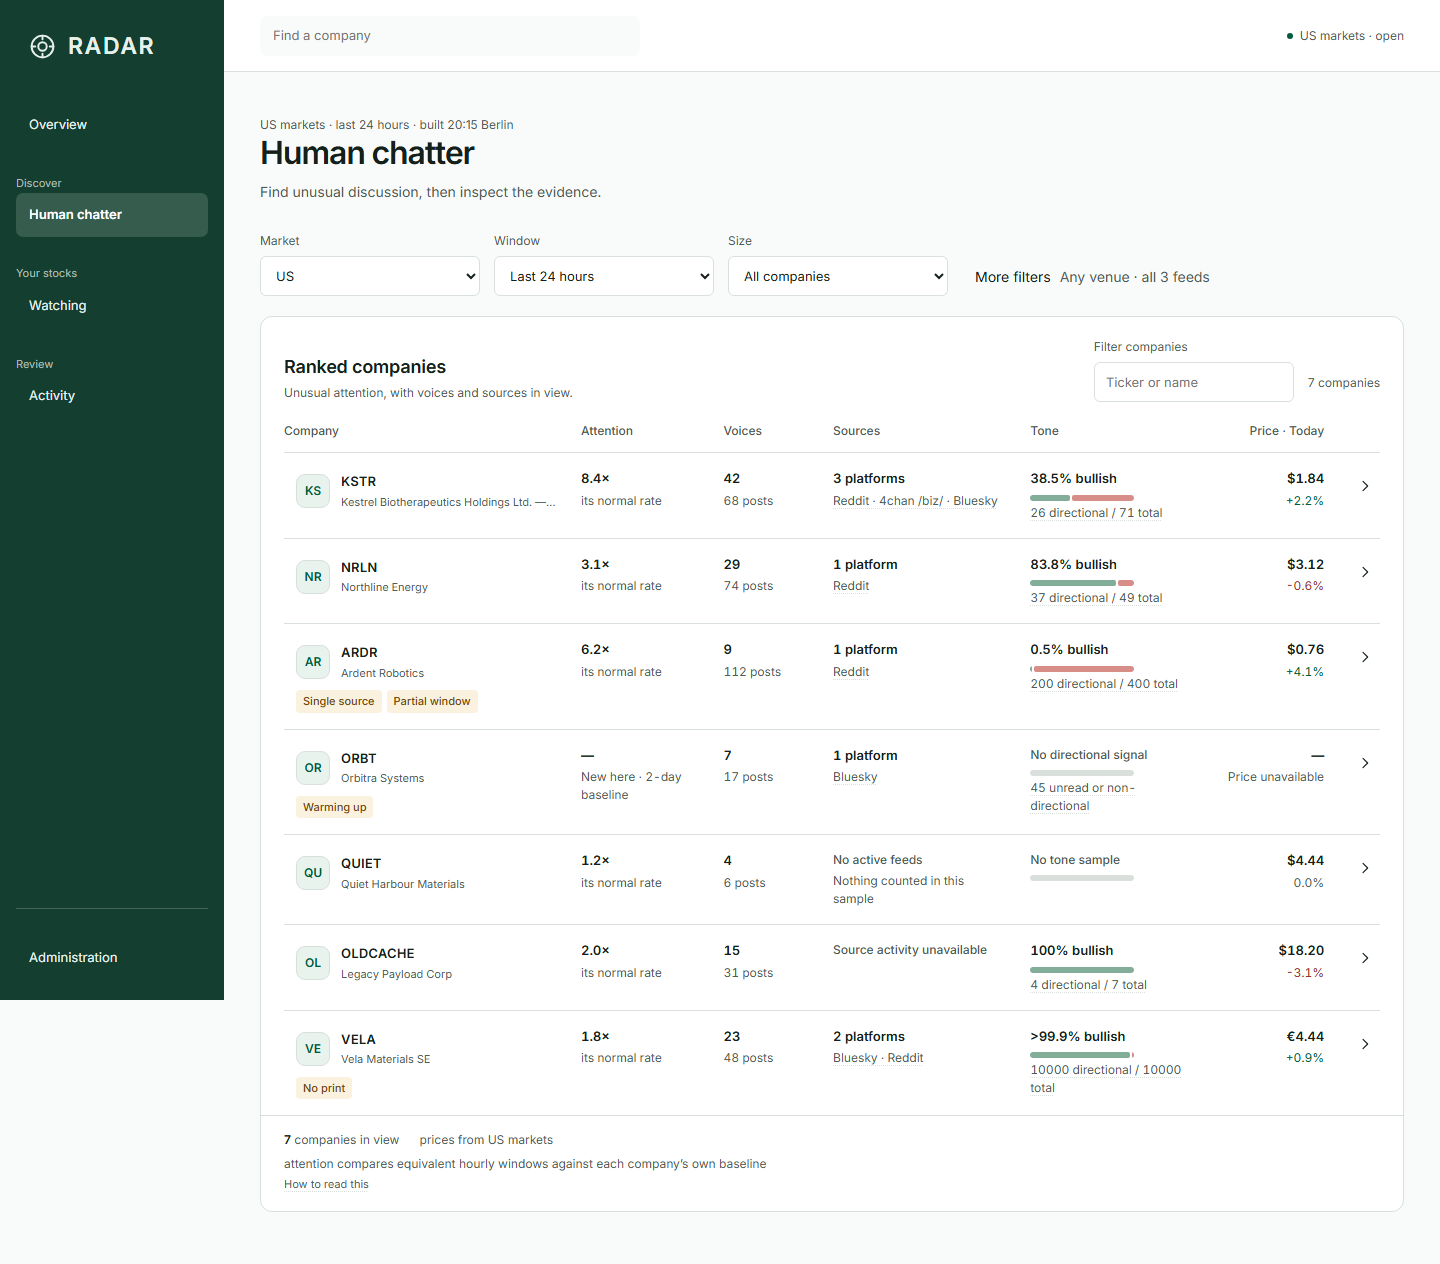
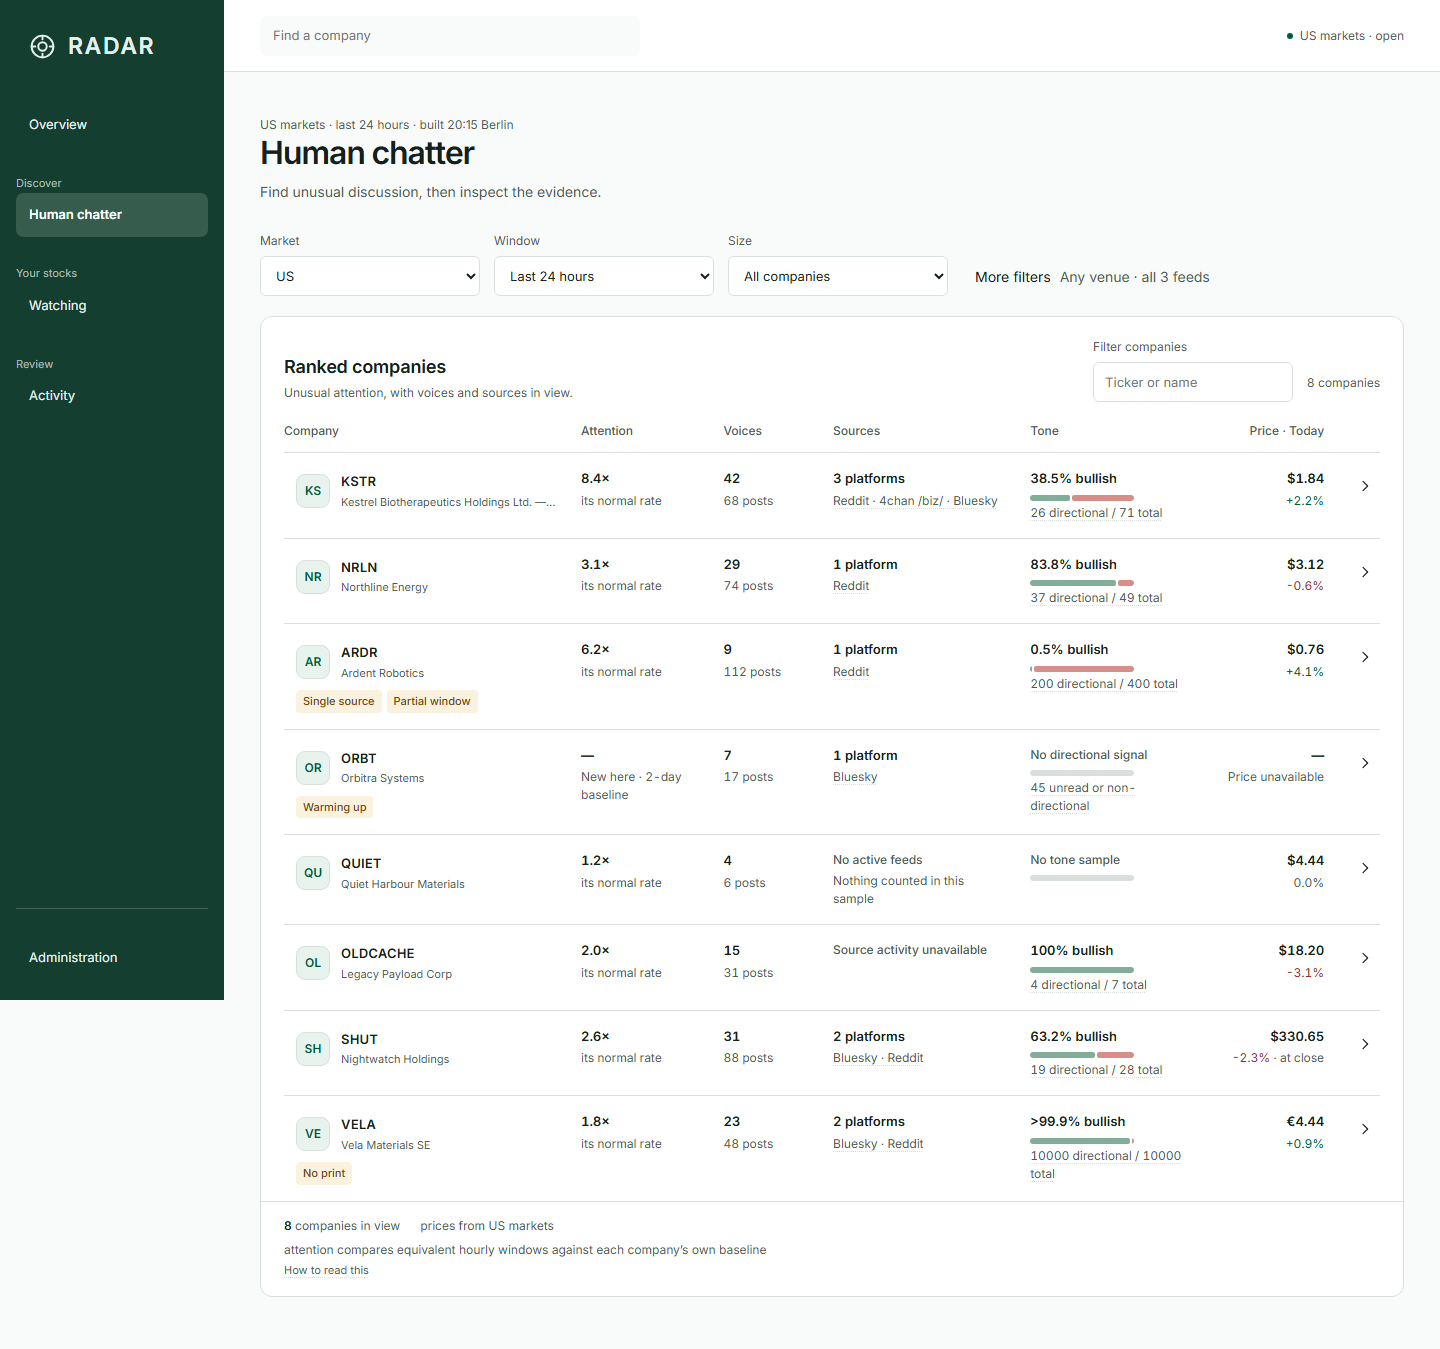
fix(radar): a move the board measured is not an unknown move
With the exchange shut, every row printed "Move unknown" over a number the
board had already computed. Measured on the live target at 00:01 UTC with the
session closed: 50 of 50 rows had a price and 0 had a move, while
quotes.moves_for returned them perfectly well for the same window -- META
+6.55%, GOOGL -2.28%, PL -3.31%.

`_assemble` was discarding the move whenever the quote was not score-eligible.
That gate belongs to the DIVERGENCE score, and the reason is good: a frozen
tape reporting no movement while mentions explode is maximum divergence
produced by an artifact. But divergence tests `score_eligible` itself rather
than relying on `move` having been nulled, so carrying the move through cannot
weaken it -- and a test now pins exactly that, asserting the move survives a
closed exchange while the score still refuses.

The row says which session it is describing: `-2.3% · at close` when the
exchange is shut, `+3.1% · no print since` when the tape has frozen while the
market is open, and the bare percentage while it is trading. "Move unknown" is
now reserved for the one case that really is unknown -- fewer than two
snapshots in the window, which quotes.moves_for decides and always did.

This is the third instance of one mistake, after the tone column's "neutral"
and the evidence list's "wording": a deliberate suppression rendered as an
absence. The fixture gains a closed-exchange row so the state is visible in the
captures rather than only in a test.
[…]

diff --git a/personal_apps/static/radar/src/hub/Chatter.test.tsx b/personal_apps/static/radar/src/hub/Chatter.test.tsx
@@ -163,6 +163,37 @@ describe('the ranked list', () => {
     expect(screen.getByText('0.0%')).toBeVisible()
   })
 
+  it('says a closed-market move is at the close, not unknown', () => {
+    // It used to print "Move unknown" over a number it had. Measured on the
+    // live board with the session closed: 50 of 50 rows priced, 0 with a
+    // move, while the move calculation returned them fine.
+    show([row({ price: 330.65, price_move: -0.0228, direction: 'down',
+                price_status: 'closed' })])
+    expect(screen.getByText(/-2\.3%/)).toBeVisible()
+    expect(screen.getByText(/at close/)).toBeVisible()
+    expect(screen.queryByText(/move unknown/i)).not.toBeInTheDocument()
+  })
+
+  it('says a frozen tape has not printed, and still shows the move', () => {
+    show([row({ price: 10, price_move: 0.031, direction: 'up',
+                price_status: 'stale', marks: ['no-print'] })])
+    expect(screen.getByText(/\+3\.1%/)).toBeVisible()
+    expect(screen.getByText(/no print since/)).toBeVisible()
+  })
+
+  it('adds no session note while the market is open', () => {
+    show([row({ price: 10, price_move: 0.012, price_status: 'ok' })])
+    expect(screen.getByText('+1.2%')).toBeVisible()
+    expect(screen.queryByText(/at close|no print since/)).not.toBeInTheDocument()
+  })
+
+  it('still says unknown when the move really is unmeasurable', () => {
+    // Fewer than two snapshots in the window. That is the one unknown.
+    show([row({ price: 10, price_move: null, price_status: 'closed' })])
+    expect(screen.getByText(/move unknown/i)).toBeVisible()
+    expect(screen.queryByText(/at close/)).not.toBeInTheDocument()
+  })
+
   it('keeps the qualifying marks visible', () => {
     // PRODUCT.md: rendered, never hidden behind a hover.
     show([row({ marks: ['single-source', 'provisional'] })])

diff --git a/personal_apps/static/radar/src/hub/Chatter.tsx b/personal_apps/static/radar/src/hub/Chatter.tsx
@@ -689,10 +689,30 @@ function Price({ row }: { row: Row }) {
         {formatPrice(row.price, quote.currency)}
       </strong>
       <span className={`rh-sub num ${moveClass(move)}`}>
-        {move === null ? 'Move unknown' : `${move > 0 ? '+' : ''}${(move * 100).toFixed(1)}%`}
+        {move === null
+          ? 'Move unknown'
+          : `${move > 0 ? '+' : ''}${(move * 100).toFixed(1)}%`}
+        {move !== null && tapeNote(row.price_status)
+          ? <span className="muted"> · {tapeNote(row.price_status)}</span>
+          : null}
       </span>
     </>
   )
+}
+
+/** What to say about a move the exchange is not currently confirming.
+ *
+ *  The move itself is measured either way -- two snapshots in the window and
+ *  the difference between them. What changes with the session is whether it is
+ *  still moving, and a reader looking at `-2.3%` at two in the morning deserves
+ *  to be told which. `Move unknown` is reserved for the one case that really is
+ *  unknown: fewer than two snapshots, decided in `quotes.moves_for`. */
+function tapeNote(status: Row['price_status']): string | null {
+  if (status === 'closed') return 'at close'
+  // The exchange is open and this tape is not printing. The row already
+  // carries the No print badge; this says what the number is in spite of it.
+  if (status === 'stale') return 'no print since'
+  return null
 }
 
 function moveClass(move: number | null): string {

diff --git a/personal_apps/tests/test_radar_leaderboard.py b/personal_apps/tests/test_radar_leaderboard.py
@@ -740,6 +740,44 @@ def test_pinned_rows_keep_the_order_asked_and_drop_duplicates(board):
     assert leaderboard.build_pinned([], ['bluesky'], NOW) == []
 
 
+def test_a_closed_exchange_keeps_the_move_and_drops_only_the_score(board):
+    """The move is measured; the SCORE is what a frozen tape invalidates.
+
+    Both used to be discarded together, so with the exchange shut every row
+    printed "Move unknown" over a number the board had already computed.
+    """
+    universe_row('LBSHUT')
+    scored('LBSHUT')
+    # Two snapshots in the window, so the move is genuinely measurable, and a
+    # quote_ts old enough that the tape is not printing.
+    quoted('LBSHUT', '110.00', '100.00', minutes_ago=200)
+    quoted('LBSHUT', '100.00', '100.00', minutes_ago=30,
+           quote_ts=NOW - dt.timedelta(hours=9))
+    db.session.commit()
+
+    [row] = leaderboard.build_pinned(['LBSHUT'], ['bluesky'], NOW,
+                                     window_hours=24)
+
+    assert row.quote.score_eligible is False, 'the fixture must be ineligible'
+    assert row.price_move is not None, 'the measured move must survive'
+    # The score is what the artifact invalidates, and it is still refused.
+    assert row.divergence is None
+
+
+def test_a_move_nobody_could_measure_is_still_none(board):
+    """One snapshot is not a flat price. `moves_for` decides that, and it is
+    the only thing the row should ever call unknown."""
+    universe_row('LBONE')
+    scored('LBONE')
+    quoted('LBONE', '100.00', '100.00', minutes_ago=30)
+    db.session.commit()
+
+    [row] = leaderboard.build_pinned(['LBONE'], ['bluesky'], NOW,
+                                     window_hours=24)
+
+    assert row.price_move is None
+
+
 # --- activity_sources: the feeds that counted something ---------------------
 #
 # `sources` lists the feeds that were LOOKED AT: _aggregate admits a bucket on

diff --git a/personal_apps/features/radar/leaderboard.py b/personal_apps/features/radar/leaderboard.py
@@ -335,14 +335,26 @@ def _assemble(ticker, folded, parts, profile, quote, moves, quote_sigmas,
                          if part.baseline_days is not None), default=None)
 
     status = quote.tape_status
-    move = (moves.get((ticker, quote.market))
-            if quote.score_eligible else None)
+    # The move as MEASURED, whatever the session. It used to be discarded
+    # whenever the quote was not score-eligible, which meant that with the
+    # exchange shut every row printed "Move unknown" over a number the board
+    # had already computed -- 50 of 50 rows priced and 0 with a move, measured
+    # on the live target 2026-09-10. It was never unknown; it was withheld,
+    # and the surface said the wrong one of those two things.
+    #
+    # `moves_for` returns None for its own honest reason -- fewer than two
+    # snapshots in the window -- and THAT is the unknown the row should name.
+    move = moves.get((ticker, quote.market))
 
     # A frozen tape reports no movement while mentions explode because it
     # froze. That is maximum divergence produced by an artifact, so the
-    # row carries the mark and no score rather than a flattering number.
+    # row carries the mark and no SCORE rather than a flattering number.
     # 'closed' lands here too and for the same reason -- but it earns no
     # mark, because the exchange being shut says nothing about the stock.
+    #
+    # Note this gate is on the DIVERGENCE and always was: it tests
+    # `score_eligible` itself rather than relying on `move` having been
+    # nulled, so carrying the move through above cannot weaken it.
     value = None
     if quote.score_eligible and move is not None and mention_z is not None:
         sigma = quote_sigmas.get(ticker)

diff --git a/personal_apps/scratchpad/vc1_preview.py b/personal_apps/scratchpad/vc1_preview.py
@@ -140,6 +140,17 @@ FIXTURE_ROWS = [
          mentions=31, price=18.20, price_move=-0.031, direction='down',
          quote=quote(price=18.20), activity_sources=None,
          tone={'bullish': 4, 'neutral': 3, 'bearish': 0}),
+    # The exchange is shut. The move is MEASURED and must read as one -- this
+    # row is the whole of the 2026-09-10 finding, where 50 of 50 live rows
+    # printed "Move unknown" over a number the board already had.
+    frow(ticker='SHUT', name='Nightwatch Holdings', ratio=2.6, authors=31,
+         mentions=88, price=330.65, price_move=-0.0228, direction='down',
+         price_status='closed',
+         quote={**quote(price=330.65), 'quality': 'stale',
+                'score_eligible': False, 'tape_status': 'closed',
+                'session': 'closed'},
+         activity_sources=['bluesky', 'reddit:stocks'],
+         tone={'bullish': 12, 'neutral': 9, 'bearish': 7}),
     # A euro listing, so the currency path is on screen too.
     frow(ticker='VELA', name='Vela Materials SE', ratio=1.8, authors=23,
          mentions=48, price=4.44, price_move=0.009,

diff --git a/personal_apps/scratchpad/vc1_close.py b/personal_apps/scratchpad/vc1_close.py
@@ -43,7 +43,13 @@ def main():
         page.wait_for_selector('.rh-chatter')
 
         radar = page.evaluate(TICKERS)
-        check('the list opens in Radar order', len(radar) == 7, ', '.join(radar))
+        # Derived, not hardcoded: a magic 7 here failed the moment the fixture
+        # gained a row, which is a check reporting on itself rather than on
+        # the page.
+        counted = page.inner_text('.rh-panelcount')
+        check('the list opens in Radar order, all of it',
+              bool(radar) and str(len(radar)) in counted,
+              f'{len(radar)} rows against "{counted}": ' + ', '.join(radar))
         check('no column claims to be sorted yet',
               page.evaluate("""() => Array.from(
                 document.querySelectorAll('.rh-chatter thead th'))
